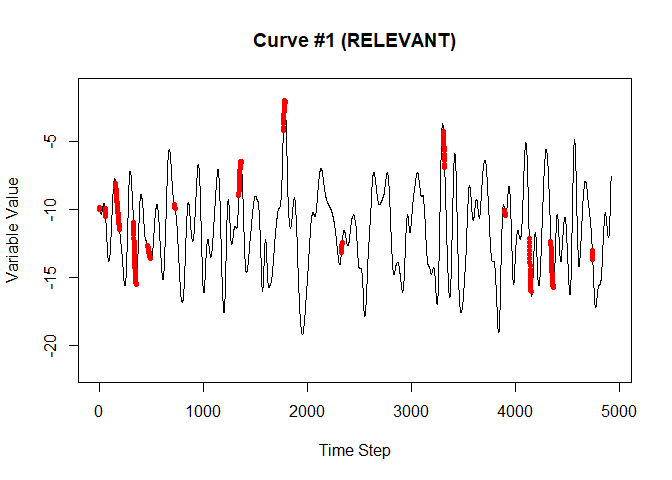
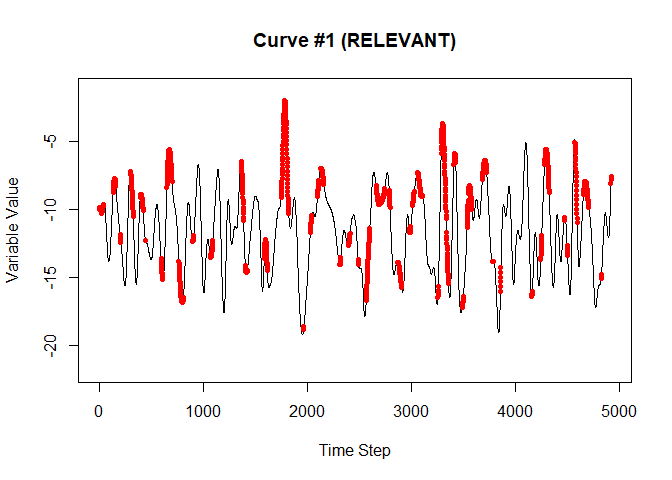
Made substantial updates to Case 4, which uses the upgraded code.

diff --git a/Cases/Case_4/Case_4_markdown.md b/Cases/Case_4/Case_4_markdown.md
@@ -187,12 +187,12 @@ distinctive pattern shown in the following plots.
 ```
 
 The perfect classification of the positive examples and poor classification
-performance of the negative examples in both the training and test set is a
-distinctive relationship that occurs often when there is a logical 'OR'
-relationship present.  Once this is known, steps can be taken to make the
-additional computational investment of creating additional versions of the
-features that might exist with different critical ranges and then fitting the
-new larger (about 2 x size) data set.  
+performance of the negative examples in the training and near perfect
+classification for othe test set is a distinctive relationship that occurs often
+when there is a logical 'OR' relationship present.  Once this is known or
+suspected, steps can be taken to make the additional computational investment of
+creating additional versions of the features that might exist with different
+critical ranges and then fitting the new larger (sized two times plus) data set.  
 
 
 ```
@@ -217,7 +217,7 @@ new larger (about 2 x size) data set.
 ```
 
 Without calculating the extra versions, the un-transformed data actually
-outperforms the transformed data.
+outperforms the transformed data, but not by much.
 
 
 ```
@@ -235,16 +235,52 @@ outperforms the transformed data.
 ![](Case_4_markdown_files/figure-html/untransformed_data_barplot-1.png)<!-- -->
 
 The computational advantage is slightly reduced when the extra versions are
-calculated because the size of the new data set is essentially double that of
-the old one. However, the increase in performance in terms of the accuracy of
+calculated because the size of the new data set is essentially double-plus that
+of the old one. However, the increase in performance in terms of the accuracy of
 the model when compared to the non-transformed data is arguably worth expending
-the small amount of extra computational energy to produce the much better
+the small-ish amount of extra computational energy to produce the much better
 results. The next plots show the success of the fit against the test set with
-the extra versions calculated.
+the extra versions calculated.  The procedure that was followed, which seems to
+yield generally good results, is repeatedly running the algorithm that
+calculates the extra versions and fits the model until there are no more false-
+positives in the training set, then run the algorithm using the development set
+instead of the training set, and then finally run the algorithm on the training
+set again until there are no more false-positive results.
 
 
 ```
 ## Fitting a new model with additional feature versions that *might* exist...
+```
+
+```
+## 
+##   Running model through
+```
+
+```
+## 1 2 3 4
+```
+
+```
+## times
+##       +
+```
+
+```
+## 1 2 3
+```
+
+```
+##  times throught the devset
+##       +
+```
+
+```
+## 1 2 3
+```
+
+```
+## more times through the training set.
 ```
 
 ```
@@ -254,31 +290,26 @@ the extra versions calculated.
 It is clear from the performance of the new models trained with extra versions
 of each feature that would exist if a logical 'OR' relationship existed that
 there is a significant performance boost when the new versions of each feature
-with different critical ranges are created. The Figures below show the training
-and test sets when applied to the model created with the limited number of extra
-versions, and the performance advantage over the LASSO applied to the original
-continuous data is profound.
+with different critical ranges are created. The Figures below show the training,
+development, and test sets when applied to the model created with the limited
+number of extra versions, and the performance advantage over the LASSO applied
+to the original continuous data is profound.
 
-![](Case_4_markdown_files/figure-html/transformed_data_plots_ev-1.png)<!-- -->![](Case_4_markdown_files/figure-html/transformed_data_plots_ev-2.png)<!-- -->
+![](Case_4_markdown_files/figure-html/transformed_data_plots_ev-1.png)<!-- -->![](Case_4_markdown_files/figure-html/transformed_data_plots_ev-2.png)<!-- -->![](Case_4_markdown_files/figure-html/transformed_data_plots_ev-3.png)<!-- -->
 
 The LASSO results with the unmodified continuous data shown above indicate that
-while there is definitely a relationship, the difficulty in creating a model in
-which multiple features within the same data set can independently cause the
-same result is evident. 
+while there is definitely a relationship, it is not very precise and the the
+difficulty in creating a model in which multiple features within the same data
+set can independently cause the same result is evident. 
 
 ![](Case_4_markdown_files/figure-html/transformed_data_barplot_ev-1.png)<!-- -->
 
-As with case 3, two of the features occlude the other two that share an OR
-relationship with the first two, though in this case chance has favored the
-latter two features.  The success of this method hinges on whether there is
-enough information to accurately define the true critical ranges of the features
-present.  This generally occurs when there are enough negative examples at the
-margins of the critical ranges to show where those critical ranges begin and
-end.  If the positive examples cover the entirety of the ranges of the negative
-examples for a feature, this will result in no usable data and the process will
-fail.  In those cases, the only recourse is to define a large number of possible
-critical range boundaries and fit them all simultaneously, which *greatly*
-increases the computational load of the process. However, this process generally
-works in many more situations and may dramatically increase the accuracy of the
-model.
+Unlike case 3, this set of coefficients is considerably noisier.  It is worth
+pointing out that the truly relevant features and time steps *are* indicated,
+but they are indistinguishable from the noise at this point. The success of this
+method hinges on whether there is enough information to accurately define the
+true critical ranges of the features present, and each additional set of non-
+relevant data causes this burden to incrementally rise.  As more data is
+analyzed, however, the more clear the result will become, allowing a steady
+removal of non-relevant features, until only the relevant ones are left.
 
